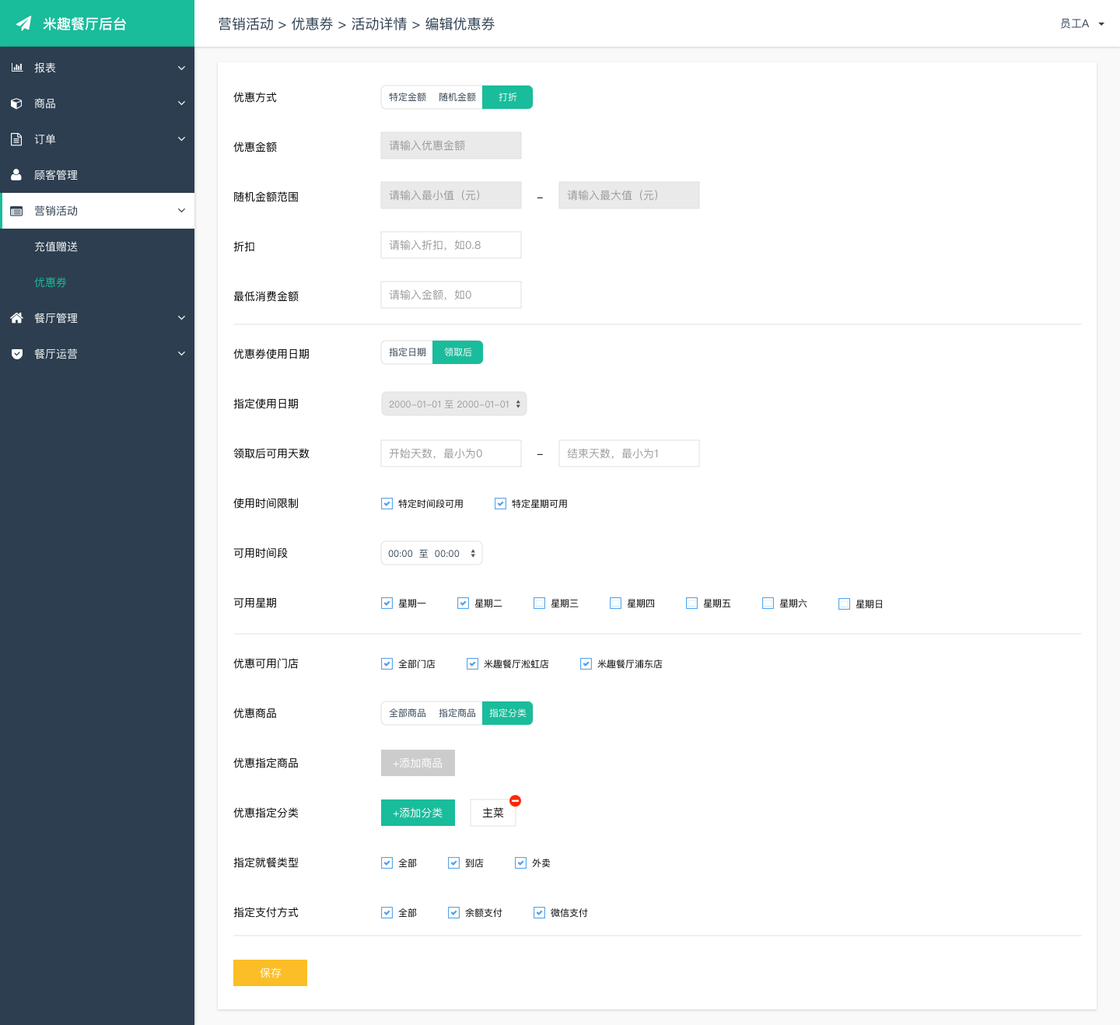
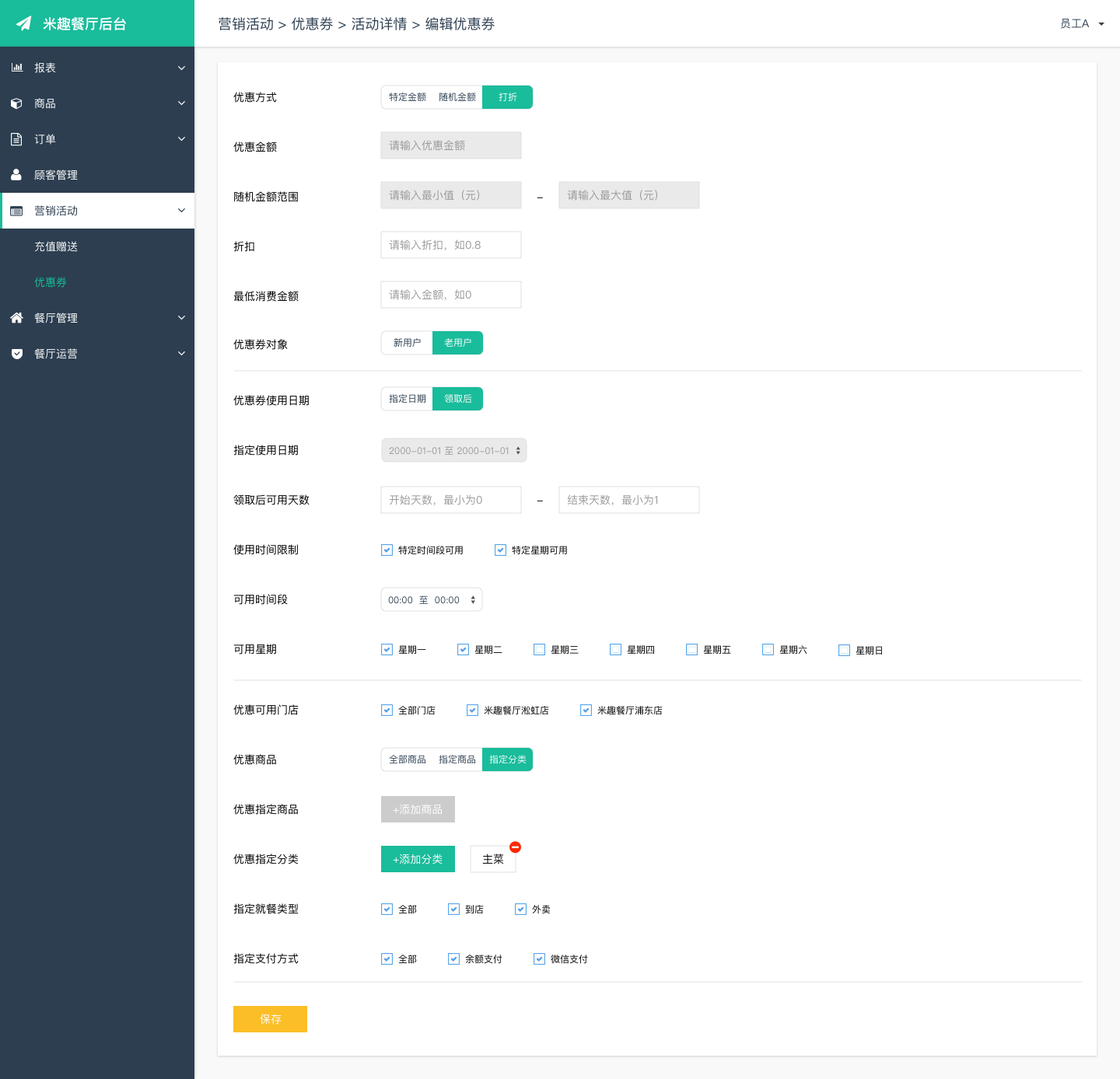
优惠

diff --git a/files/e2优惠券/data.js b/files/e2优惠券/data.js
@@ -2,6 +2,6 @@
 (function() {
     var _ = function() { var r={},a=arguments; for(var i=0; i<a.length; i+=2) r[a[i]]=a[i+1]; return r; }
     var _creator = function() { return _(b,c,d,e,f,g,h,g,i,[j],k,_(l,m,n,o,p,q,r,_(),s,_(t,u,v,w,x,_(y,z,A,B),C,null,D,w,E,w,F,G,H,null,I,J,K,L,M,N,O,J),P,_(),Q,_(),R,_(S,[_(T,U,V,W,X,Y,n,Z,ba,Z,bb,bc,s,_(bd,_(be,bf,bg,bh),t,bi,bj,_(bk,bl,bm,bl)),P,_(),bn,_(),S,[_(T,bo,V,W,X,null,bp,bc,n,bq,ba,br,bb,bc,s,_(bd,_(be,bf,bg,bh),t,bi,bj,_(bk,bl,bm,bl)),P,_(),bn,_())],bs,_(bt,bu)),_(T,bv,V,W,X,bw,n,bx,ba,bx,bb,bc,s,_(t,by,bj,_(bk,bz,bm,bA)),P,_(),bn,_(),S,[_(T,bB,V,W,X,null,bp,bc,n,bq,ba,br,bb,bc,s,_(t,by,bj,_(bk,bz,bm,bA)),P,_(),bn,_())],bs,_(bC,bD,bE,bF)),_(T,bG,V,W,X,bH,n,bI,ba,bI,bb,bc,s,_(bJ,bK,bd,_(be,bL,bg,bl),t,bM,bj,_(bk,bN,bm,bO),bP,_(y,z,A,bQ,bR,bS),bT,bU),P,_(),bn,_(),S,[_(T,bV,V,W,X,null,bp,bc,n,bq,ba,br,bb,bc,s,_(bJ,bK,bd,_(be,bL,bg,bl),t,bM,bj,_(bk,bN,bm,bO),bP,_(y,z,A,bQ,bR,bS),bT,bU),P,_(),bn,_())],bW,g),_(T,bX,V,W,X,bY,n,bZ,ba,bZ,bb,bc,s,_(bd,_(be,ca,bg,cb),bj,_(bk,bl,bm,cc)),P,_(),bn,_(),S,[_(T,cd,V,W,X,ce,n,cf,ba,cf,bb,bc,s,_(bd,_(be,cg,bg,ch),t,ci,x,_(y,z,A,cj),ck,_(y,z,A,cl)),P,_(),bn,_(),S,[_(T,cm,V,W,X,null,bp,bc,n,bq,ba,br,bb,bc,s,_(bd,_(be,cg,bg,ch),t,ci,x,_(y,z,A,cj),ck,_(y,z,A,cl)),P,_(),bn,_())],bs,_(bt,cn)),_(T,co,V,W,X,ce,n,cf,ba,cf,bb,bc,s,_(bj,_(bk,cg,bm,cp),bd,_(be,cq,bg,ch),t,ci,x,_(y,z,A,cj),ck,_(y,z,A,cl),cr,cs),P,_(),bn,_(),S,[_(T,ct,V,W,X,null,bp,bc,n,bq,ba,br,bb,bc,s,_(bj,_(bk,cg,bm,cp),bd,_(be,cq,bg,ch),t,ci,x,_(y,z,A,cj),ck,_(y,z,A,cl),cr,cs),P,_(),bn,_())],bs,_(bt,cu)),_(T,cv,V,W,X,ce,n,cf,ba,cf,bb,bc,s,_(bd,_(be,cg,bg,cw),t,ci,bj,_(bk,cp,bm,ch),ck,_(y,z,A,cl),M,cx),P,_(),bn,_(),S,[_(T,cy,V,W,X,null,bp,bc,n,bq,ba,br,bb,bc,s,_(bd,_(be,cg,bg,cw),t,ci,bj,_(bk,cp,bm,ch),ck,_(y,z,A,cl),M,cx),P,_(),bn,_())],bs,_(bt,cz)),_(T,cA,V,W,X,ce,n,cf,ba,cf,bb,bc,s,_(bd,_(be,cq,bg,cw),t,ci,ck,_(y,z,A,cl),M,cx,bj,_(bk,cg,bm,ch),cr,cs),P,_(),bn,_(),S,[_(T,cB,V,W,X,null,bp,bc,n,bq,ba,br,bb,bc,s,_(bd,_(be,cq,bg,cw),t,ci,ck,_(y,z,A,cl),M,cx,bj,_(bk,cg,bm,ch),cr,cs),P,_(),bn,_())],bs,_(bt,cC)),_(T,cD,V,W,X,ce,n,cf,ba,cf,bb,bc,s,_(bd,_(be,cg,bg,cw),t,ci,bj,_(bk,cp,bm,cE),ck,_(y,z,A,cl),M,cx),P,_(),bn,_(),S,[_(T,cF,V,W,X,null,bp,bc,n,bq,ba,br,bb,bc,s,_(bd,_(be,cg,bg,cw),t,ci,bj,_(bk,cp,bm,cE),ck,_(y,z,A,cl),M,cx),P,_(),bn,_())],bs,_(bt,cz)),_(T,cG,V,W,X,ce,n,cf,ba,cf,bb,bc,s,_(bd,_(be,cq,bg,cw),t,ci,ck,_(y,z,A,cl),M,cx,bj,_(bk,cg,bm,cE),cr,cs),P,_(),bn,_(),S,[_(T,cH,V,W,X,null,bp,bc,n,bq,ba,br,bb,bc,s,_(bd,_(be,cq,bg,cw),t,ci,ck,_(y,z,A,cl),M,cx,bj,_(bk,cg,bm,cE),cr,cs),P,_(),bn,_())],bs,_(bt,cC)),_(T,cI,V,W,X,ce,n,cf,ba,cf,bb,bc,s,_(bd,_(be,cg,bg,cw),t,ci,ck,_(y,z,A,cl),M,cx,bj,_(bk,cp,bm,cJ)),P,_(),bn,_(),S,[_(T,cK,V,W,X,null,bp,bc,n,bq,ba,br,bb,bc,s,_(bd,_(be,cg,bg,cw),t,ci,ck,_(y,z,A,cl),M,cx,bj,_(bk,cp,bm,cJ)),P,_(),bn,_())],bs,_(bt,cz)),_(T,cL,V,W,X,ce,n,cf,ba,cf,bb,bc,s,_(bd,_(be,cq,bg,cw),t,ci,ck,_(y,z,A,cl),M,cx,bj,_(bk,cg,bm,cJ),cr,cs),P,_(),bn,_(),S,[_(T,cM,V,W,X,null,bp,bc,n,bq,ba,br,bb,bc,s,_(bd,_(be,cq,bg,cw),t,ci,ck,_(y,z,A,cl),M,cx,bj,_(bk,cg,bm,cJ),cr,cs),P,_(),bn,_())],bs,_(bt,cC)),_(T,cN,V,W,X,ce,n,cf,ba,cf,bb,bc,s,_(bd,_(be,cg,bg,cw),t,ci,ck,_(y,z,A,cl),M,cx,bj,_(bk,cp,bm,cO)),P,_(),bn,_(),S,[_(T,cP,V,W,X,null,bp,bc,n,bq,ba,br,bb,bc,s,_(bd,_(be,cg,bg,cw),t,ci,ck,_(y,z,A,cl),M,cx,bj,_(bk,cp,bm,cO)),P,_(),bn,_())],bs,_(bt,cz)),_(T,cQ,V,W,X,ce,n,cf,ba,cf,bb,bc,s,_(bd,_(be,cq,bg,cw),t,ci,ck,_(y,z,A,cl),M,cx,cr,cs,bj,_(bk,cg,bm,cO)),P,_(),bn,_(),S,[_(T,cR,V,W,X,null,bp,bc,n,bq,ba,br,bb,bc,s,_(bd,_(be,cq,bg,cw),t,ci,ck,_(y,z,A,cl),M,cx,cr,cs,bj,_(bk,cg,bm,cO)),P,_(),bn,_())],bs,_(bt,cC)),_(T,cS,V,W,X,ce,n,cf,ba,cf,bb,bc,s,_(bd,_(be,cg,bg,cw),t,ci,ck,_(y,z,A,cl),M,cx,bj,_(bk,cp,bm,cT)),P,_(),bn,_(),S,[_(T,cU,V,W,X,null,bp,bc,n,bq,ba,br,bb,bc,s,_(bd,_(be,cg,bg,cw),t,ci,ck,_(y,z,A,cl),M,cx,bj,_(bk,cp,bm,cT)),P,_(),bn,_())],bs,_(bt,cz)),_(T,cV,V,W,X,ce,n,cf,ba,cf,bb,bc,s,_(bd,_(be,cq,bg,cw),t,ci,ck,_(y,z,A,cl),M,cx,bj,_(bk,cg,bm,cT),cr,cs),P,_(),bn,_(),S,[_(T,cW,V,W,X,null,bp,bc,n,bq,ba,br,bb,bc,s,_(bd,_(be,cq,bg,cw),t,ci,ck,_(y,z,A,cl),M,cx,bj,_(bk,cg,bm,cT),cr,cs),P,_(),bn,_())],bs,_(bt,cC)),_(T,cX,V,W,X,ce,n,cf,ba,cf,bb,bc,s,_(bd,_(be,cg,bg,cw),t,ci,ck,_(y,z,A,cl),M,cx,bj,_(bk,cp,bm,cY)),P,_(),bn,_(),S,[_(T,cZ,V,W,X,null,bp,bc,n,bq,ba,br,bb,bc,s,_(bd,_(be,cg,bg,cw),t,ci,ck,_(y,z,A,cl),M,cx,bj,_(bk,cp,bm,cY)),P,_(),bn,_())],bs,_(bt,da)),_(T,db,V,W,X,ce,n,cf,ba,cf,bb,bc,s,_(bd,_(be,cq,bg,cw),t,ci,ck,_(y,z,A,cl),M,cx,bj,_(bk,cg,bm,cY),cr,cs),P,_(),bn,_(),S,[_(T,dc,V,W,X,null,bp,bc,n,bq,ba,br,bb,bc,s,_(bd,_(be,cq,bg,cw),t,ci,ck,_(y,z,A,cl),M,cx,bj,_(bk,cg,bm,cY),cr,cs),P,_(),bn,_())],bs,_(bt,dd))]),_(T,de,V,W,X,bY,n,bZ,ba,bZ,bb,bc,s,_(bd,_(be,ca,bg,cg),bj,_(bk,bl,bm,df)),P,_(),bn,_(),S,[_(T,dg,V,W,X,ce,n,cf,ba,cf,bb,bc,s,_(bd,_(be,dh,bg,cw),t,ci,bj,_(bk,cp,bm,di),ck,_(y,z,A,cl),M,cx),P,_(),bn,_(),S,[_(T,dj,V,W,X,null,bp,bc,n,bq,ba,br,bb,bc,s,_(bd,_(be,dh,bg,cw),t,ci,bj,_(bk,cp,bm,di),ck,_(y,z,A,cl),M,cx),P,_(),bn,_())],bs,_(bt,dk)),_(T,dl,V,W,X,ce,n,cf,ba,cf,bb,bc,s,_(bd,_(be,dm,bg,cw),t,ci,ck,_(y,z,A,cl),M,cx,bj,_(bk,dh,bm,di)),P,_(),bn,_(),S,[_(T,dn,V,W,X,null,bp,bc,n,bq,ba,br,bb,bc,s,_(bd,_(be,dm,bg,cw),t,ci,ck,_(y,z,A,cl),M,cx,bj,_(bk,dh,bm,di)),P,_(),bn,_())],bs,_(bt,dp)),_(T,dq,V,W,X,ce,n,cf,ba,cf,bb,bc,s,_(bd,_(be,dh,bg,di),t,ci,x,_(y,z,A,cj),ck,_(y,z,A,cl)),P,_(),bn,_(),S,[_(T,dr,V,W,X,null,bp,bc,n,bq,ba,br,bb,bc,s,_(bd,_(be,dh,bg,di),t,ci,x,_(y,z,A,cj),ck,_(y,z,A,cl)),P,_(),bn,_())],bs,_(bt,ds)),_(T,dt,V,W,X,ce,n,cf,ba,cf,bb,bc,s,_(bj,_(bk,dh,bm,cp),bd,_(be,dm,bg,di),t,ci,x,_(y,z,A,cj),ck,_(y,z,A,cl)),P,_(),bn,_(),S,[_(T,du,V,W,X,null,bp,bc,n,bq,ba,br,bb,bc,s,_(bj,_(bk,dh,bm,cp),bd,_(be,dm,bg,di),t,ci,x,_(y,z,A,cj),ck,_(y,z,A,cl)),P,_(),bn,_())],bs,_(bt,dv)),_(T,dw,V,W,X,ce,n,cf,ba,cf,bb,bc,s,_(bj,_(bk,dx,bm,cp),bd,_(be,dy,bg,di),t,ci,x,_(y,z,A,cj),ck,_(y,z,A,cl),M,cx),P,_(),bn,_(),S,[_(T,dz,V,W,X,null,bp,bc,n,bq,ba,br,bb,bc,s,_(bj,_(bk,dx,bm,cp),bd,_(be,dy,bg,di),t,ci,x,_(y,z,A,cj),ck,_(y,z,A,cl),M,cx),P,_(),bn,_())],bs,_(bt,dA)),_(T,dB,V,W,X,ce,n,cf,ba,cf,bb,bc,s,_(bd,_(be,dy,bg,cw),t,ci,ck,_(y,z,A,cl),M,cx,bj,_(bk,dx,bm,di)),P,_(),bn,_(),S,[_(T,dC,V,W,X,null,bp,bc,n,bq,ba,br,bb,bc,s,_(bd,_(be,dy,bg,cw),t,ci,ck,_(y,z,A,cl),M,cx,bj,_(bk,dx,bm,di)),P,_(),bn,_())],bs,_(bt,dD)),_(T,dE,V,W,X,ce,n,cf,ba,cf,bb,bc,s,_(bd,_(be,dh,bg,cw),t,ci,ck,_(y,z,A,cl),M,cx,bj,_(bk,cp,bm,dF)),P,_(),bn,_(),S,[_(T,dG,V,W,X,null,bp,bc,n,bq,ba,br,bb,bc,s,_(bd,_(be,dh,bg,cw),t,ci,ck,_(y,z,A,cl),M,cx,bj,_(bk,cp,bm,dF)),P,_(),bn,_())],bs,_(bt,dk)),_(T,dH,V,W,X,ce,n,cf,ba,cf,bb,bc,s,_(bd,_(be,dm,bg,cw),t,ci,ck,_(y,z,A,cl),M,cx,bj,_(bk,dh,bm,dF)),P,_(),bn,_(),S,[_(T,dI,V,W,X,null,bp,bc,n,bq,ba,br,bb,bc,s,_(bd,_(be,dm,bg,cw),t,ci,ck,_(y,z,A,cl),M,cx,bj,_(bk,dh,bm,dF)),P,_(),bn,_())],bs,_(bt,dp)),_(T,dJ,V,W,X,ce,n,cf,ba,cf,bb,bc,s,_(bd,_(be,dy,bg,cw),t,ci,ck,_(y,z,A,cl),M,cx,bj,_(bk,dx,bm,dF)),P,_(),bn,_(),S,[_(T,dK,V,W,X,null,bp,bc,n,bq,ba,br,bb,bc,s,_(bd,_(be,dy,bg,cw),t,ci,ck,_(y,z,A,cl),M,cx,bj,_(bk,dx,bm,dF)),P,_(),bn,_())],bs,_(bt,dD)),_(T,dL,V,W,X,ce,n,cf,ba,cf,bb,bc,s,_(bd,_(be,dh,bg,cw),t,ci,ck,_(y,z,A,cl),M,cx,bj,_(bk,cp,bm,dM)),P,_(),bn,_(),S,[_(T,dN,V,W,X,null,bp,bc,n,bq,ba,br,bb,bc,s,_(bd,_(be,dh,bg,cw),t,ci,ck,_(y,z,A,cl),M,cx,bj,_(bk,cp,bm,dM)),P,_(),bn,_())],bs,_(bt,dk)),_(T,dO,V,W,X,ce,n,cf,ba,cf,bb,bc,s,_(bd,_(be,dm,bg,cw),t,ci,ck,_(y,z,A,cl),M,cx,bj,_(bk,dh,bm,dM)),P,_(),bn,_(),S,[_(T,dP,V,W,X,null,bp,bc,n,bq,ba,br,bb,bc,s,_(bd,_(be,dm,bg,cw),t,ci,ck,_(y,z,A,cl),M,cx,bj,_(bk,dh,bm,dM)),P,_(),bn,_())],bs,_(bt,dp)),_(T,dQ,V,W,X,ce,n,cf,ba,cf,bb,bc,s,_(bd,_(be,dy,bg,cw),t,ci,ck,_(y,z,A,cl),M,cx,bj,_(bk,dx,bm,dM)),P,_(),bn,_(),S,[_(T,dR,V,W,X,null,bp,bc,n,bq,ba,br,bb,bc,s,_(bd,_(be,dy,bg,cw),t,ci,ck,_(y,z,A,cl),M,cx,bj,_(bk,dx,bm,dM)),P,_(),bn,_())],bs,_(bt,dD)),_(T,dS,V,W,X,ce,n,cf,ba,cf,bb,bc,s,_(bd,_(be,dh,bg,cw),t,ci,ck,_(y,z,A,cl),M,cx,bj,_(bk,cp,bm,dT)),P,_(),bn,_(),S,[_(T,dU,V,W,X,null,bp,bc,n,bq,ba,br,bb,bc,s,_(bd,_(be,dh,bg,cw),t,ci,ck,_(y,z,A,cl),M,cx,bj,_(bk,cp,bm,dT)),P,_(),bn,_())],bs,_(bt,dV)),_(T,dW,V,W,X,ce,n,cf,ba,cf,bb,bc,s,_(bd,_(be,dm,bg,cw),t,ci,ck,_(y,z,A,cl),M,cx,bj,_(bk,dh,bm,dT)),P,_(),bn,_(),S,[_(T,dX,V,W,X,null,bp,bc,n,bq,ba,br,bb,bc,s,_(bd,_(be,dm,bg,cw),t,ci,ck,_(y,z,A,cl),M,cx,bj,_(bk,dh,bm,dT)),P,_(),bn,_())],bs,_(bt,dY)),_(T,dZ,V,W,X,ce,n,cf,ba,cf,bb,bc,s,_(bd,_(be,dy,bg,cw),t,ci,ck,_(y,z,A,cl),M,cx,bj,_(bk,dx,bm,dT)),P,_(),bn,_(),S,[_(T,ea,V,W,X,null,bp,bc,n,bq,ba,br,bb,bc,s,_(bd,_(be,dy,bg,cw),t,ci,ck,_(y,z,A,cl),M,cx,bj,_(bk,dx,bm,dT)),P,_(),bn,_())],bs,_(bt,eb))]),_(T,ec,V,W,X,bH,n,bI,ba,bI,bb,bc,s,_(bJ,bK,bd,_(be,ed,bg,bl),t,bM,bj,_(bk,bl,bm,ee),bP,_(y,z,A,bQ,bR,bS),bT,bU),P,_(),bn,_(),S,[_(T,ef,V,W,X,null,bp,bc,n,bq,ba,br,bb,bc,s,_(bJ,bK,bd,_(be,ed,bg,bl),t,bM,bj,_(bk,bl,bm,ee),bP,_(y,z,A,bQ,bR,bS),bT,bU),P,_(),bn,_())],bW,g)])),eg,_(),eh,_(ei,_(ej,ek),el,_(ej,em),en,_(ej,eo),ep,_(ej,eq),er,_(ej,es),et,_(ej,eu),ev,_(ej,ew),ex,_(ej,ey),ez,_(ej,eA),eB,_(ej,eC),eD,_(ej,eE),eF,_(ej,eG),eH,_(ej,eI),eJ,_(ej,eK),eL,_(ej,eM),eN,_(ej,eO),eP,_(ej,eQ),eR,_(ej,eS),eT,_(ej,eU),eV,_(ej,eW),eX,_(ej,eY),eZ,_(ej,fa),fb,_(ej,fc),fd,_(ej,fe),ff,_(ej,fg),fh,_(ej,fi),fj,_(ej,fk),fl,_(ej,fm),fn,_(ej,fo),fp,_(ej,fq),fr,_(ej,fs),ft,_(ej,fu),fv,_(ej,fw),fx,_(ej,fy),fz,_(ej,fA),fB,_(ej,fC),fD,_(ej,fE),fF,_(ej,fG),fH,_(ej,fI),fJ,_(ej,fK),fL,_(ej,fM),fN,_(ej,fO),fP,_(ej,fQ),fR,_(ej,fS),fT,_(ej,fU),fV,_(ej,fW),fX,_(ej,fY),fZ,_(ej,ga),gb,_(ej,gc),gd,_(ej,ge),gf,_(ej,gg),gh,_(ej,gi),gj,_(ej,gk),gl,_(ej,gm),gn,_(ej,go),gp,_(ej,gq),gr,_(ej,gs),gt,_(ej,gu),gv,_(ej,gw),gx,_(ej,gy),gz,_(ej,gA),gB,_(ej,gC),gD,_(ej,gE),gF,_(ej,gG),gH,_(ej,gI),gJ,_(ej,gK),gL,_(ej,gM),gN,_(ej,gO)));}; 
-var b="url",c="e2优惠券.html",d="generationDate",e=new Date(1528450912128.85),f="isCanvasEnabled",g=false,h="isAdaptiveEnabled",i="variables",j="OnLoadVariable",k="page",l="packageId",m="54f6f5647d75405c8cfa3fde6beb91ea",n="type",o="Axure:Page",p="name",q="E2优惠券",r="notes",s="style",t="baseStyle",u="627587b6038d43cca051c114ac41ad32",v="pageAlignment",w="near",x="fill",y="fillType",z="solid",A="color",B=0xFFFFFFFF,C="image",D="imageHorizontalAlignment",E="imageVerticalAlignment",F="imageRepeat",G="auto",H="favicon",I="sketchFactor",J="0",K="colorStyle",L="appliedColor",M="fontName",N="Applied Font",O="borderWidth",P="adaptiveStyles",Q="interactionMap",R="diagram",S="objects",T="id",U="0264a68bcf1b44b18a9d980c276fa66b",V="label",W="",X="friendlyType",Y="图片",Z="imageBox",ba="styleType",bb="visible",bc=true,bd="size",be="width",bf=1200,bg="height",bh=853,bi="75a91ee5b9d042cfa01b8d565fe289c0",bj="location",bk="x",bl=20,bm="y",bn="imageOverrides",bo="688b26035acb4eca978a7eb93d8a60cb",bp="isContained",bq="richTextPanel",br="paragraph",bs="images",bt="normal~",bu="images/e2优惠券/regen/u0.png",bv="5f6e1724e4c24e1d9789355eaebce5f8",bw="连接线",bx="connector",by="699a012e142a4bcba964d96e88b88bdf",bz=1155,bA=462,bB="2beffc9d3cc44662a70a14a72a0af50c",bC="0~",bD="images/e2优惠券/regen/u2_seg0.png",bE="1~",bF="images/e2优惠券/regen/u2_seg1.png",bG="940f11434a384eb3bd2900127f068ecb",bH="矩形",bI="vectorShape",bJ="fontWeight",bK="700",bL=110,bM="8c7a4c5ad69a4369a5f7788171ac0b32",bN=1230,bO=453,bP="foreGroundFill",bQ=0xFFFF6699,bR="opacity",bS=1,bT="fontSize",bU="14px",bV="cad47ab1e7144b89a2173ad851dd4471",bW="generateCompound",bX="86682982fba24d788e32d2ab8be33a9c",bY="表格",bZ="table",ca=982,cb=213,cc=894,cd="a33ce6ec928e45b4a0c63918618ca553",ce="单元格",cf="tableCell",cg=154,ch=33,ci="eb91f509753b447fa6dbff5f9fa9dc01",cj=0xFFF2F2F2,ck="borderFill",cl=0xFFD7D7D7,cm="9778871e412b4b89bfec7cffc24a8df0",cn="images/e2优惠券/regen/u7.png",co="b0012b0730614aceaed9cf4278f8c96e",cp=0,cq=828,cr="horizontalAlignment",cs="left",ct="71f21545340245c9a07b4c3f937f5294",cu="images/e2优惠券/regen/u9.png",cv="8cfee2eed867412d867470083d90fdc1",cw=30,cx="'PingFangSC-Regular', 'PingFang SC'",cy="c071bc569dc24c568e64b9dca1d9f1f1",cz="images/e2优惠券/regen/u11.png",cA="9580963240d64d3580c1252d768b15a4",cB="85af6b3ced504951867153ebea582396",cC="images/e2优惠券/regen/u13.png",cD="48c424a0f3c14bdb829da4553d7bac06",cE=63,cF="61e7a56b1f674a23a23ad93aeb2adf5d",cG="8c38b4d8417147b4ae86b74f8df3061c",cH="25a782f25a8e43338b26cbe20ef4e725",cI="ab7768cfd48d4606b01a61b33f9b69dc",cJ=123,cK="6c63558fe44341e4aa106cf1f52613b2",cL="713219f7cb61458ba2b5ff856f0a370f",cM="6ed5a88c3cb8410bb976272266c797f2",cN="e88f888c1f23477c8adf06a8abcafb64",cO=93,cP="d88de10eb72048d38b40217ac798721d",cQ="654f7faf96ef4cf1bde5cf1072dd5e18",cR="bed99a8420a248f88a09ad7998ae0db8",cS="fbd49a52b70049b7a1bfc5702b22157b",cT=153,cU="01560981eb9a4c96b4a88529db61ce35",cV="bdbf442f4128457ab6b281e0501daa36",cW="9ab781ffe4dd4adc97ee80e9d531f497",cX="4900c60dde2b4e0794a765738b577974",cY=183,cZ="be5a300aa6574e7aa85431859c071210",da="images/e2优惠券/regen/u31.png",db="1da6410f3b9644b8a22a723345d23f01",dc="5f553ab72a694e52bbf7afffc5831d55",dd="images/e2优惠券/regen/u33.png",de="39f410922d0944fba766337f813d0afd",df=1187,dg="68ce7103bf434498a06af318829decc8",dh=246,di=34,dj="9538a9c015014bd89facaf3d1c625eef",dk="images/e2优惠券/regen/u42.png",dl="8a34808c8e17418285f7fa724eb2d3f6",dm=180,dn="aebff73d2d864feda12506198658e2e5",dp="images/e2优惠券/regen/u44.png",dq="7516e21053624d99bbea51743bf997e5",dr="b8ac89bbc6084af09ad2eb5de0937f90",ds="images/e2优惠券/regen/u36.png",dt="984ad8f420e043b2a69c3f7077cfe322",du="92bb5620401a483fa69594b955428f36",dv="images/e2优惠券/regen/u38.png",dw="f4af8df70a354643a4386111b3bea981",dx=426,dy=556,dz="a7563c7206864352a0cf4ca8cad9c284",dA="images/e2优惠券/regen/u40.png",dB="497edc9a84c64e5ea32e3148e9da729a",dC="c7459059721a448ebb3acaed9af60ee5",dD="images/e2优惠券/regen/u46.png",dE="40064a8bd88849d7a65ab13c3fd2d13b",dF=64,dG="fe862d1d80c44a51afdb662376843e2d",dH="94947af5521b4dd3989062dc9749ae88",dI="ed762aaf61ed4e2fa59ddbc7ed831f8f",dJ="a801aaa794444c3da93d03da9f7ecbd0",dK="5241db28069e4537b15949f5ae9a56dc",dL="6aec4a8ecf324aa9953c6fb57640e9bc",dM=94,dN="202885c41bad453dbd670ec62f0ef24d",dO="10555d383a4e4a1997ac43f6d2c5e9e9",dP="33debeb646444567b5eea4dcfbb85506",dQ="326cb60bc03749b3b280397c7f018469",dR="ce3254d7f7e64872b173a9dc964462c0",dS="010a82ba07684ebc8d88cba16e08aa84",dT=124,dU="7c7b32c9d39948c88c9ca60f1a0194d5",dV="images/e2优惠券/regen/u60.png",dW="24f92bc50e624b1d9e28a1b6b250256e",dX="41953886e9974541bb0a0ea1b7135535",dY="images/e2优惠券/regen/u62.png",dZ="165bdd599d8c41809112ae8c0cfdf5e0",ea="15938f653add4458974ca0beb0da4b56",eb="images/e2优惠券/regen/u64.png",ec="3c18b6787f604728ae2f60bd64521a3e",ed=71,ee=1157,ef="8fa3347a1dff4a49b0c64aa1ca86642a",eg="masters",eh="objectPaths",ei="0264a68bcf1b44b18a9d980c276fa66b",ej="scriptId",ek="u0",el="688b26035acb4eca978a7eb93d8a60cb",em="u1",en="5f6e1724e4c24e1d9789355eaebce5f8",eo="u2",ep="2beffc9d3cc44662a70a14a72a0af50c",eq="u3",er="940f11434a384eb3bd2900127f068ecb",es="u4",et="cad47ab1e7144b89a2173ad851dd4471",eu="u5",ev="86682982fba24d788e32d2ab8be33a9c",ew="u6",ex="a33ce6ec928e45b4a0c63918618ca553",ey="u7",ez="9778871e412b4b89bfec7cffc24a8df0",eA="u8",eB="b0012b0730614aceaed9cf4278f8c96e",eC="u9",eD="71f21545340245c9a07b4c3f937f5294",eE="u10",eF="8cfee2eed867412d867470083d90fdc1",eG="u11",eH="c071bc569dc24c568e64b9dca1d9f1f1",eI="u12",eJ="9580963240d64d3580c1252d768b15a4",eK="u13",eL="85af6b3ced504951867153ebea582396",eM="u14",eN="48c424a0f3c14bdb829da4553d7bac06",eO="u15",eP="61e7a56b1f674a23a23ad93aeb2adf5d",eQ="u16",eR="8c38b4d8417147b4ae86b74f8df3061c",eS="u17",eT="25a782f25a8e43338b26cbe20ef4e725",eU="u18",eV="e88f888c1f23477c8adf06a8abcafb64",eW="u19",eX="d88de10eb72048d38b40217ac798721d",eY="u20",eZ="654f7faf96ef4cf1bde5cf1072dd5e18",fa="u21",fb="bed99a8420a248f88a09ad7998ae0db8",fc="u22",fd="ab7768cfd48d4606b01a61b33f9b69dc",fe="u23",ff="6c63558fe44341e4aa106cf1f52613b2",fg="u24",fh="713219f7cb61458ba2b5ff856f0a370f",fi="u25",fj="6ed5a88c3cb8410bb976272266c797f2",fk="u26",fl="fbd49a52b70049b7a1bfc5702b22157b",fm="u27",fn="01560981eb9a4c96b4a88529db61ce35",fo="u28",fp="bdbf442f4128457ab6b281e0501daa36",fq="u29",fr="9ab781ffe4dd4adc97ee80e9d531f497",fs="u30",ft="4900c60dde2b4e0794a765738b577974",fu="u31",fv="be5a300aa6574e7aa85431859c071210",fw="u32",fx="1da6410f3b9644b8a22a723345d23f01",fy="u33",fz="5f553ab72a694e52bbf7afffc5831d55",fA="u34",fB="39f410922d0944fba766337f813d0afd",fC="u35",fD="7516e21053624d99bbea51743bf997e5",fE="u36",fF="b8ac89bbc6084af09ad2eb5de0937f90",fG="u37",fH="984ad8f420e043b2a69c3f7077cfe322",fI="u38",fJ="92bb5620401a483fa69594b955428f36",fK="u39",fL="f4af8df70a354643a4386111b3bea981",fM="u40",fN="a7563c7206864352a0cf4ca8cad9c284",fO="u41",fP="68ce7103bf434498a06af318829decc8",fQ="u42",fR="9538a9c015014bd89facaf3d1c625eef",fS="u43",fT="8a34808c8e17418285f7fa724eb2d3f6",fU="u44",fV="aebff73d2d864feda12506198658e2e5",fW="u45",fX="497edc9a84c64e5ea32e3148e9da729a",fY="u46",fZ="c7459059721a448ebb3acaed9af60ee5",ga="u47",gb="40064a8bd88849d7a65ab13c3fd2d13b",gc="u48",gd="fe862d1d80c44a51afdb662376843e2d",ge="u49",gf="94947af5521b4dd3989062dc9749ae88",gg="u50",gh="ed762aaf61ed4e2fa59ddbc7ed831f8f",gi="u51",gj="a801aaa794444c3da93d03da9f7ecbd0",gk="u52",gl="5241db28069e4537b15949f5ae9a56dc",gm="u53",gn="6aec4a8ecf324aa9953c6fb57640e9bc",go="u54",gp="202885c41bad453dbd670ec62f0ef24d",gq="u55",gr="10555d383a4e4a1997ac43f6d2c5e9e9",gs="u56",gt="33debeb646444567b5eea4dcfbb85506",gu="u57",gv="326cb60bc03749b3b280397c7f018469",gw="u58",gx="ce3254d7f7e64872b173a9dc964462c0",gy="u59",gz="010a82ba07684ebc8d88cba16e08aa84",gA="u60",gB="7c7b32c9d39948c88c9ca60f1a0194d5",gC="u61",gD="24f92bc50e624b1d9e28a1b6b250256e",gE="u62",gF="41953886e9974541bb0a0ea1b7135535",gG="u63",gH="165bdd599d8c41809112ae8c0cfdf5e0",gI="u64",gJ="15938f653add4458974ca0beb0da4b56",gK="u65",gL="3c18b6787f604728ae2f60bd64521a3e",gM="u66",gN="8fa3347a1dff4a49b0c64aa1ca86642a",gO="u67";
+var b="url",c="e2优惠券.html",d="generationDate",e=new Date(1529895532319.37),f="isCanvasEnabled",g=false,h="isAdaptiveEnabled",i="variables",j="OnLoadVariable",k="page",l="packageId",m="54f6f5647d75405c8cfa3fde6beb91ea",n="type",o="Axure:Page",p="name",q="E2优惠券",r="notes",s="style",t="baseStyle",u="627587b6038d43cca051c114ac41ad32",v="pageAlignment",w="near",x="fill",y="fillType",z="solid",A="color",B=0xFFFFFFFF,C="image",D="imageHorizontalAlignment",E="imageVerticalAlignment",F="imageRepeat",G="auto",H="favicon",I="sketchFactor",J="0",K="colorStyle",L="appliedColor",M="fontName",N="Applied Font",O="borderWidth",P="adaptiveStyles",Q="interactionMap",R="diagram",S="objects",T="id",U="0264a68bcf1b44b18a9d980c276fa66b",V="label",W="",X="friendlyType",Y="图片",Z="imageBox",ba="styleType",bb="visible",bc=true,bd="size",be="width",bf=1200,bg="height",bh=853,bi="75a91ee5b9d042cfa01b8d565fe289c0",bj="location",bk="x",bl=20,bm="y",bn="imageOverrides",bo="688b26035acb4eca978a7eb93d8a60cb",bp="isContained",bq="richTextPanel",br="paragraph",bs="images",bt="normal~",bu="images/e2优惠券/regen/u0.png",bv="5f6e1724e4c24e1d9789355eaebce5f8",bw="连接线",bx="connector",by="699a012e142a4bcba964d96e88b88bdf",bz=1155,bA=462,bB="2beffc9d3cc44662a70a14a72a0af50c",bC="0~",bD="images/e2优惠券/regen/u2_seg0.png",bE="1~",bF="images/e2优惠券/regen/u2_seg1.png",bG="940f11434a384eb3bd2900127f068ecb",bH="矩形",bI="vectorShape",bJ="fontWeight",bK="700",bL=110,bM="8c7a4c5ad69a4369a5f7788171ac0b32",bN=1230,bO=453,bP="foreGroundFill",bQ=0xFFFF6699,bR="opacity",bS=1,bT="fontSize",bU="14px",bV="cad47ab1e7144b89a2173ad851dd4471",bW="generateCompound",bX="86682982fba24d788e32d2ab8be33a9c",bY="表格",bZ="table",ca=982,cb=213,cc=894,cd="a33ce6ec928e45b4a0c63918618ca553",ce="单元格",cf="tableCell",cg=154,ch=33,ci="eb91f509753b447fa6dbff5f9fa9dc01",cj=0xFFF2F2F2,ck="borderFill",cl=0xFFD7D7D7,cm="9778871e412b4b89bfec7cffc24a8df0",cn="images/e2优惠券/regen/u7.png",co="b0012b0730614aceaed9cf4278f8c96e",cp=0,cq=828,cr="horizontalAlignment",cs="left",ct="71f21545340245c9a07b4c3f937f5294",cu="images/e2优惠券/regen/u9.png",cv="8cfee2eed867412d867470083d90fdc1",cw=30,cx="'PingFangSC-Regular', 'PingFang SC'",cy="c071bc569dc24c568e64b9dca1d9f1f1",cz="images/e2优惠券/regen/u11.png",cA="9580963240d64d3580c1252d768b15a4",cB="85af6b3ced504951867153ebea582396",cC="images/e2优惠券/regen/u13.png",cD="48c424a0f3c14bdb829da4553d7bac06",cE=63,cF="61e7a56b1f674a23a23ad93aeb2adf5d",cG="8c38b4d8417147b4ae86b74f8df3061c",cH="25a782f25a8e43338b26cbe20ef4e725",cI="ab7768cfd48d4606b01a61b33f9b69dc",cJ=123,cK="6c63558fe44341e4aa106cf1f52613b2",cL="713219f7cb61458ba2b5ff856f0a370f",cM="6ed5a88c3cb8410bb976272266c797f2",cN="e88f888c1f23477c8adf06a8abcafb64",cO=93,cP="d88de10eb72048d38b40217ac798721d",cQ="654f7faf96ef4cf1bde5cf1072dd5e18",cR="bed99a8420a248f88a09ad7998ae0db8",cS="fbd49a52b70049b7a1bfc5702b22157b",cT=153,cU="01560981eb9a4c96b4a88529db61ce35",cV="bdbf442f4128457ab6b281e0501daa36",cW="9ab781ffe4dd4adc97ee80e9d531f497",cX="4900c60dde2b4e0794a765738b577974",cY=183,cZ="be5a300aa6574e7aa85431859c071210",da="images/e2优惠券/regen/u31.png",db="1da6410f3b9644b8a22a723345d23f01",dc="5f553ab72a694e52bbf7afffc5831d55",dd="images/e2优惠券/regen/u33.png",de="39f410922d0944fba766337f813d0afd",df=1187,dg="68ce7103bf434498a06af318829decc8",dh=246,di=34,dj="9538a9c015014bd89facaf3d1c625eef",dk="images/e2优惠券/regen/u42.png",dl="8a34808c8e17418285f7fa724eb2d3f6",dm=180,dn="aebff73d2d864feda12506198658e2e5",dp="images/e2优惠券/regen/u44.png",dq="7516e21053624d99bbea51743bf997e5",dr="b8ac89bbc6084af09ad2eb5de0937f90",ds="images/e2优惠券/regen/u36.png",dt="984ad8f420e043b2a69c3f7077cfe322",du="92bb5620401a483fa69594b955428f36",dv="images/e2优惠券/regen/u38.png",dw="f4af8df70a354643a4386111b3bea981",dx=426,dy=556,dz="a7563c7206864352a0cf4ca8cad9c284",dA="images/e2优惠券/regen/u40.png",dB="497edc9a84c64e5ea32e3148e9da729a",dC="c7459059721a448ebb3acaed9af60ee5",dD="images/e2优惠券/regen/u46.png",dE="40064a8bd88849d7a65ab13c3fd2d13b",dF=64,dG="fe862d1d80c44a51afdb662376843e2d",dH="94947af5521b4dd3989062dc9749ae88",dI="ed762aaf61ed4e2fa59ddbc7ed831f8f",dJ="a801aaa794444c3da93d03da9f7ecbd0",dK="5241db28069e4537b15949f5ae9a56dc",dL="6aec4a8ecf324aa9953c6fb57640e9bc",dM=94,dN="202885c41bad453dbd670ec62f0ef24d",dO="10555d383a4e4a1997ac43f6d2c5e9e9",dP="33debeb646444567b5eea4dcfbb85506",dQ="326cb60bc03749b3b280397c7f018469",dR="ce3254d7f7e64872b173a9dc964462c0",dS="010a82ba07684ebc8d88cba16e08aa84",dT=124,dU="7c7b32c9d39948c88c9ca60f1a0194d5",dV="images/e2优惠券/regen/u60.png",dW="24f92bc50e624b1d9e28a1b6b250256e",dX="41953886e9974541bb0a0ea1b7135535",dY="images/e2优惠券/regen/u62.png",dZ="165bdd599d8c41809112ae8c0cfdf5e0",ea="15938f653add4458974ca0beb0da4b56",eb="images/e2优惠券/regen/u64.png",ec="3c18b6787f604728ae2f60bd64521a3e",ed=71,ee=1157,ef="8fa3347a1dff4a49b0c64aa1ca86642a",eg="masters",eh="objectPaths",ei="0264a68bcf1b44b18a9d980c276fa66b",ej="scriptId",ek="u0",el="688b26035acb4eca978a7eb93d8a60cb",em="u1",en="5f6e1724e4c24e1d9789355eaebce5f8",eo="u2",ep="2beffc9d3cc44662a70a14a72a0af50c",eq="u3",er="940f11434a384eb3bd2900127f068ecb",es="u4",et="cad47ab1e7144b89a2173ad851dd4471",eu="u5",ev="86682982fba24d788e32d2ab8be33a9c",ew="u6",ex="a33ce6ec928e45b4a0c63918618ca553",ey="u7",ez="9778871e412b4b89bfec7cffc24a8df0",eA="u8",eB="b0012b0730614aceaed9cf4278f8c96e",eC="u9",eD="71f21545340245c9a07b4c3f937f5294",eE="u10",eF="8cfee2eed867412d867470083d90fdc1",eG="u11",eH="c071bc569dc24c568e64b9dca1d9f1f1",eI="u12",eJ="9580963240d64d3580c1252d768b15a4",eK="u13",eL="85af6b3ced504951867153ebea582396",eM="u14",eN="48c424a0f3c14bdb829da4553d7bac06",eO="u15",eP="61e7a56b1f674a23a23ad93aeb2adf5d",eQ="u16",eR="8c38b4d8417147b4ae86b74f8df3061c",eS="u17",eT="25a782f25a8e43338b26cbe20ef4e725",eU="u18",eV="e88f888c1f23477c8adf06a8abcafb64",eW="u19",eX="d88de10eb72048d38b40217ac798721d",eY="u20",eZ="654f7faf96ef4cf1bde5cf1072dd5e18",fa="u21",fb="bed99a8420a248f88a09ad7998ae0db8",fc="u22",fd="ab7768cfd48d4606b01a61b33f9b69dc",fe="u23",ff="6c63558fe44341e4aa106cf1f52613b2",fg="u24",fh="713219f7cb61458ba2b5ff856f0a370f",fi="u25",fj="6ed5a88c3cb8410bb976272266c797f2",fk="u26",fl="fbd49a52b70049b7a1bfc5702b22157b",fm="u27",fn="01560981eb9a4c96b4a88529db61ce35",fo="u28",fp="bdbf442f4128457ab6b281e0501daa36",fq="u29",fr="9ab781ffe4dd4adc97ee80e9d531f497",fs="u30",ft="4900c60dde2b4e0794a765738b577974",fu="u31",fv="be5a300aa6574e7aa85431859c071210",fw="u32",fx="1da6410f3b9644b8a22a723345d23f01",fy="u33",fz="5f553ab72a694e52bbf7afffc5831d55",fA="u34",fB="39f410922d0944fba766337f813d0afd",fC="u35",fD="7516e21053624d99bbea51743bf997e5",fE="u36",fF="b8ac89bbc6084af09ad2eb5de0937f90",fG="u37",fH="984ad8f420e043b2a69c3f7077cfe322",fI="u38",fJ="92bb5620401a483fa69594b955428f36",fK="u39",fL="f4af8df70a354643a4386111b3bea981",fM="u40",fN="a7563c7206864352a0cf4ca8cad9c284",fO="u41",fP="68ce7103bf434498a06af318829decc8",fQ="u42",fR="9538a9c015014bd89facaf3d1c625eef",fS="u43",fT="8a34808c8e17418285f7fa724eb2d3f6",fU="u44",fV="aebff73d2d864feda12506198658e2e5",fW="u45",fX="497edc9a84c64e5ea32e3148e9da729a",fY="u46",fZ="c7459059721a448ebb3acaed9af60ee5",ga="u47",gb="40064a8bd88849d7a65ab13c3fd2d13b",gc="u48",gd="fe862d1d80c44a51afdb662376843e2d",ge="u49",gf="94947af5521b4dd3989062dc9749ae88",gg="u50",gh="ed762aaf61ed4e2fa59ddbc7ed831f8f",gi="u51",gj="a801aaa794444c3da93d03da9f7ecbd0",gk="u52",gl="5241db28069e4537b15949f5ae9a56dc",gm="u53",gn="6aec4a8ecf324aa9953c6fb57640e9bc",go="u54",gp="202885c41bad453dbd670ec62f0ef24d",gq="u55",gr="10555d383a4e4a1997ac43f6d2c5e9e9",gs="u56",gt="33debeb646444567b5eea4dcfbb85506",gu="u57",gv="326cb60bc03749b3b280397c7f018469",gw="u58",gx="ce3254d7f7e64872b173a9dc964462c0",gy="u59",gz="010a82ba07684ebc8d88cba16e08aa84",gA="u60",gB="7c7b32c9d39948c88c9ca60f1a0194d5",gC="u61",gD="24f92bc50e624b1d9e28a1b6b250256e",gE="u62",gF="41953886e9974541bb0a0ea1b7135535",gG="u63",gH="165bdd599d8c41809112ae8c0cfdf5e0",gI="u64",gJ="15938f653add4458974ca0beb0da4b56",gK="u65",gL="3c18b6787f604728ae2f60bd64521a3e",gM="u66",gN="8fa3347a1dff4a49b0c64aa1ca86642a",gO="u67";
 return _creator();
 })());

diff --git a/files/e21活动详情/data.js b/files/e21活动详情/data.js
@@ -2,6 +2,6 @@
 (function() {
     var _ = function() { var r={},a=arguments; for(var i=0; i<a.length; i+=2) r[a[i]]=a[i+1]; return r; }
     var _creator = function() { return _(b,c,d,e,f,g,h,g,i,[j],k,_(l,m,n,o,p,q,r,_(),s,_(t,u,v,w,x,_(y,z,A,B),C,null,D,w,E,w,F,G,H,null,I,J,K,L,M,N,O,J),P,_(),Q,_(),R,_(S,[_(T,U,V,W,X,Y,n,Z,ba,Z,bb,bc,s,_(bd,_(be,bf,bg,bh),t,bi,bj,_(bk,bl,bm,bl)),P,_(),bn,_(),S,[_(T,bo,V,W,X,null,bp,bc,n,bq,ba,br,bb,bc,s,_(bd,_(be,bf,bg,bh),t,bi,bj,_(bk,bl,bm,bl)),P,_(),bn,_())],bs,_(bt,bu)),_(T,bv,V,W,X,bw,n,bx,ba,bx,bb,bc,s,_(t,by,bj,_(bk,bz,bm,bA)),P,_(),bn,_(),S,[_(T,bB,V,W,X,null,bp,bc,n,bq,ba,br,bb,bc,s,_(t,by,bj,_(bk,bz,bm,bA)),P,_(),bn,_())],bs,_(bC,bD,bE,bF)),_(T,bG,V,W,X,bH,n,bI,ba,bI,bb,bc,s,_(bJ,bK,bd,_(be,bL,bg,bl),t,bM,bj,_(bk,bN,bm,bO),bP,_(y,z,A,bQ,bR,bS),bT,bU),P,_(),bn,_(),S,[_(T,bV,V,W,X,null,bp,bc,n,bq,ba,br,bb,bc,s,_(bJ,bK,bd,_(be,bL,bg,bl),t,bM,bj,_(bk,bN,bm,bO),bP,_(y,z,A,bQ,bR,bS),bT,bU),P,_(),bn,_())],bW,g),_(T,bX,V,W,X,bw,n,bx,ba,bx,bb,bc,s,_(t,by,bj,_(bk,bY,bm,bZ)),P,_(),bn,_(),S,[_(T,ca,V,W,X,null,bp,bc,n,bq,ba,br,bb,bc,s,_(t,by,bj,_(bk,bY,bm,bZ)),P,_(),bn,_())],bs,_(bC,cb,bE,cc,cd,bF)),_(T,ce,V,W,X,bH,n,bI,ba,bI,bb,bc,s,_(bJ,bK,bd,_(be,bL,bg,bl),t,bM,bj,_(bk,cf,bm,cg),bP,_(y,z,A,bQ,bR,bS),bT,bU),P,_(),bn,_(),S,[_(T,ch,V,W,X,null,bp,bc,n,bq,ba,br,bb,bc,s,_(bJ,bK,bd,_(be,bL,bg,bl),t,bM,bj,_(bk,cf,bm,cg),bP,_(y,z,A,bQ,bR,bS),bT,bU),P,_(),bn,_())],bW,g)])),ci,_(),cj,_(ck,_(cl,cm),cn,_(cl,co),cp,_(cl,cq),cr,_(cl,cs),ct,_(cl,cu),cv,_(cl,cw),cx,_(cl,cy),cz,_(cl,cA),cB,_(cl,cC),cD,_(cl,cE)));}; 
-var b="url",c="e21活动详情.html",d="generationDate",e=new Date(1528450921342.83),f="isCanvasEnabled",g=false,h="isAdaptiveEnabled",i="variables",j="OnLoadVariable",k="page",l="packageId",m="c56cf07b14dc4af0bfc1e7d9a826a356",n="type",o="Axure:Page",p="name",q="E21活动详情",r="notes",s="style",t="baseStyle",u="627587b6038d43cca051c114ac41ad32",v="pageAlignment",w="near",x="fill",y="fillType",z="solid",A="color",B=0xFFFFFFFF,C="image",D="imageHorizontalAlignment",E="imageVerticalAlignment",F="imageRepeat",G="auto",H="favicon",I="sketchFactor",J="0",K="colorStyle",L="appliedColor",M="fontName",N="Applied Font",O="borderWidth",P="adaptiveStyles",Q="interactionMap",R="diagram",S="objects",T="id",U="0264a68bcf1b44b18a9d980c276fa66b",V="label",W="",X="friendlyType",Y="图片",Z="imageBox",ba="styleType",bb="visible",bc=true,bd="size",be="width",bf=1200,bg="height",bh=853,bi="75a91ee5b9d042cfa01b8d565fe289c0",bj="location",bk="x",bl=20,bm="y",bn="imageOverrides",bo="688b26035acb4eca978a7eb93d8a60cb",bp="isContained",bq="richTextPanel",br="paragraph",bs="images",bt="normal~",bu="images/e21活动详情/regen/u0.png",bv="ba49a716a1784ccabadec2419a5b1538",bw="连接线",bx="connector",by="699a012e142a4bcba964d96e88b88bdf",bz=356,bA=437,bB="68cd3a4a74fc4e40bda0251779b7786b",bC="0~",bD="images/e21活动详情/regen/u2_seg0.png",bE="1~",bF="images/e21活动详情/regen/u2_seg1.png",bG="c8cadc8485ae48649a69143c671a5e2c",bH="矩形",bI="vectorShape",bJ="fontWeight",bK="700",bL=124,bM="8c7a4c5ad69a4369a5f7788171ac0b32",bN=431,bO=428,bP="foreGroundFill",bQ=0xFFFF6699,bR="opacity",bS=1,bT="fontSize",bU="14px",bV="f44f9f3183c4484592f594e87ae8a4e1",bW="generateCompound",bX="2ccaff103e824cbab3a63d3776e1e02a",bY=1082,bZ=395,ca="597c3e6774064c9b84f191f762091eba",cb="images/e21活动详情/regen/u6_seg0.png",cc="images/e21活动详情/regen/u6_seg1.png",cd="2~",ce="7611522a1f8048fdafb37d8ebd92d93d",cf=1158,cg=417,ch="35e5c5358fc54163a92a8a435462e9ab",ci="masters",cj="objectPaths",ck="0264a68bcf1b44b18a9d980c276fa66b",cl="scriptId",cm="u0",cn="688b26035acb4eca978a7eb93d8a60cb",co="u1",cp="ba49a716a1784ccabadec2419a5b1538",cq="u2",cr="68cd3a4a74fc4e40bda0251779b7786b",cs="u3",ct="c8cadc8485ae48649a69143c671a5e2c",cu="u4",cv="f44f9f3183c4484592f594e87ae8a4e1",cw="u5",cx="2ccaff103e824cbab3a63d3776e1e02a",cy="u6",cz="597c3e6774064c9b84f191f762091eba",cA="u7",cB="7611522a1f8048fdafb37d8ebd92d93d",cC="u8",cD="35e5c5358fc54163a92a8a435462e9ab",cE="u9";
+var b="url",c="e21活动详情.html",d="generationDate",e=new Date(1529895536726.85),f="isCanvasEnabled",g=false,h="isAdaptiveEnabled",i="variables",j="OnLoadVariable",k="page",l="packageId",m="c56cf07b14dc4af0bfc1e7d9a826a356",n="type",o="Axure:Page",p="name",q="E21活动详情",r="notes",s="style",t="baseStyle",u="627587b6038d43cca051c114ac41ad32",v="pageAlignment",w="near",x="fill",y="fillType",z="solid",A="color",B=0xFFFFFFFF,C="image",D="imageHorizontalAlignment",E="imageVerticalAlignment",F="imageRepeat",G="auto",H="favicon",I="sketchFactor",J="0",K="colorStyle",L="appliedColor",M="fontName",N="Applied Font",O="borderWidth",P="adaptiveStyles",Q="interactionMap",R="diagram",S="objects",T="id",U="0264a68bcf1b44b18a9d980c276fa66b",V="label",W="",X="friendlyType",Y="图片",Z="imageBox",ba="styleType",bb="visible",bc=true,bd="size",be="width",bf=1200,bg="height",bh=853,bi="75a91ee5b9d042cfa01b8d565fe289c0",bj="location",bk="x",bl=20,bm="y",bn="imageOverrides",bo="688b26035acb4eca978a7eb93d8a60cb",bp="isContained",bq="richTextPanel",br="paragraph",bs="images",bt="normal~",bu="images/e21活动详情/regen/u0.png",bv="ba49a716a1784ccabadec2419a5b1538",bw="连接线",bx="connector",by="699a012e142a4bcba964d96e88b88bdf",bz=356,bA=437,bB="68cd3a4a74fc4e40bda0251779b7786b",bC="0~",bD="images/e21活动详情/regen/u2_seg0.png",bE="1~",bF="images/e21活动详情/regen/u2_seg1.png",bG="c8cadc8485ae48649a69143c671a5e2c",bH="矩形",bI="vectorShape",bJ="fontWeight",bK="700",bL=124,bM="8c7a4c5ad69a4369a5f7788171ac0b32",bN=431,bO=428,bP="foreGroundFill",bQ=0xFFFF6699,bR="opacity",bS=1,bT="fontSize",bU="14px",bV="f44f9f3183c4484592f594e87ae8a4e1",bW="generateCompound",bX="2ccaff103e824cbab3a63d3776e1e02a",bY=1082,bZ=395,ca="597c3e6774064c9b84f191f762091eba",cb="images/e21活动详情/regen/u6_seg0.png",cc="images/e21活动详情/regen/u6_seg1.png",cd="2~",ce="7611522a1f8048fdafb37d8ebd92d93d",cf=1158,cg=417,ch="35e5c5358fc54163a92a8a435462e9ab",ci="masters",cj="objectPaths",ck="0264a68bcf1b44b18a9d980c276fa66b",cl="scriptId",cm="u0",cn="688b26035acb4eca978a7eb93d8a60cb",co="u1",cp="ba49a716a1784ccabadec2419a5b1538",cq="u2",cr="68cd3a4a74fc4e40bda0251779b7786b",cs="u3",ct="c8cadc8485ae48649a69143c671a5e2c",cu="u4",cv="f44f9f3183c4484592f594e87ae8a4e1",cw="u5",cx="2ccaff103e824cbab3a63d3776e1e02a",cy="u6",cz="597c3e6774064c9b84f191f762091eba",cA="u7",cB="7611522a1f8048fdafb37d8ebd92d93d",cC="u8",cD="35e5c5358fc54163a92a8a435462e9ab",cE="u9";
 return _creator();
 })());

diff --git a/files/e22编辑优惠券/data.js b/files/e22编辑优惠券/data.js
@@ -2,6 +2,6 @@
 (function() {
     var _ = function() { var r={},a=arguments; for(var i=0; i<a.length; i+=2) r[a[i]]=a[i+1]; return r; }
     var _creator = function() { return _(b,c,d,e,f,g,h,g,i,[j],k,_(l,m,n,o,p,q,r,_(),s,_(t,u,v,w,x,_(y,z,A,B),C,null,D,w,E,w,F,G,H,null,I,J,K,L,M,N,O,J),P,_(),Q,_(),R,_(S,[_(T,U,V,W,X,Y,n,Z,ba,Z,bb,bc,s,_(bd,_(be,bf,bg,bh),t,bi,bj,_(bk,bl,bm,bl)),P,_(),bn,_(),S,[_(T,bo,V,W,X,null,bp,bc,n,bq,ba,br,bb,bc,s,_(bd,_(be,bf,bg,bh),t,bi,bj,_(bk,bl,bm,bl)),P,_(),bn,_())],bs,_(bt,bu))])),bv,_(),bw,_(bx,_(by,bz),bA,_(by,bB)));}; 
-var b="url",c="e22编辑优惠券.html",d="generationDate",e=new Date(1528450925868.38),f="isCanvasEnabled",g=false,h="isAdaptiveEnabled",i="variables",j="OnLoadVariable",k="page",l="packageId",m="fab38ec14b7a4a46a7d3e8d886352480",n="type",o="Axure:Page",p="name",q="E22编辑优惠券",r="notes",s="style",t="baseStyle",u="627587b6038d43cca051c114ac41ad32",v="pageAlignment",w="near",x="fill",y="fillType",z="solid",A="color",B=0xFFFFFFFF,C="image",D="imageHorizontalAlignment",E="imageVerticalAlignment",F="imageRepeat",G="auto",H="favicon",I="sketchFactor",J="0",K="colorStyle",L="appliedColor",M="fontName",N="Applied Font",O="borderWidth",P="adaptiveStyles",Q="interactionMap",R="diagram",S="objects",T="id",U="47e3946531c549b5a4b22cb9f9f9a02c",V="label",W="",X="friendlyType",Y="图片",Z="imageBox",ba="styleType",bb="visible",bc=true,bd="size",be="width",bf=1200,bg="height",bh=1098,bi="75a91ee5b9d042cfa01b8d565fe289c0",bj="location",bk="x",bl=20,bm="y",bn="imageOverrides",bo="20aa0c1233ea4c3fbb47ab0fcd4fca86",bp="isContained",bq="richTextPanel",br="paragraph",bs="images",bt="normal~",bu="images/e22编辑优惠券/regen/u0.png",bv="masters",bw="objectPaths",bx="47e3946531c549b5a4b22cb9f9f9a02c",by="scriptId",bz="u0",bA="20aa0c1233ea4c3fbb47ab0fcd4fca86",bB="u1";
+var b="url",c="e22编辑优惠券.html",d="generationDate",e=new Date(1529895542090),f="isCanvasEnabled",g=false,h="isAdaptiveEnabled",i="variables",j="OnLoadVariable",k="page",l="packageId",m="fab38ec14b7a4a46a7d3e8d886352480",n="type",o="Axure:Page",p="name",q="E22编辑优惠券",r="notes",s="style",t="baseStyle",u="627587b6038d43cca051c114ac41ad32",v="pageAlignment",w="near",x="fill",y="fillType",z="solid",A="color",B=0xFFFFFFFF,C="image",D="imageHorizontalAlignment",E="imageVerticalAlignment",F="imageRepeat",G="auto",H="favicon",I="sketchFactor",J="0",K="colorStyle",L="appliedColor",M="fontName",N="Applied Font",O="borderWidth",P="adaptiveStyles",Q="interactionMap",R="diagram",S="objects",T="id",U="47e3946531c549b5a4b22cb9f9f9a02c",V="label",W="",X="friendlyType",Y="图片",Z="imageBox",ba="styleType",bb="visible",bc=true,bd="size",be="width",bf=1200,bg="height",bh=1171,bi="75a91ee5b9d042cfa01b8d565fe289c0",bj="location",bk="x",bl=20,bm="y",bn="imageOverrides",bo="20aa0c1233ea4c3fbb47ab0fcd4fca86",bp="isContained",bq="richTextPanel",br="paragraph",bs="images",bt="normal~",bu="images/e22编辑优惠券/regen/u0.png",bv="masters",bw="objectPaths",bx="47e3946531c549b5a4b22cb9f9f9a02c",by="scriptId",bz="u0",bA="20aa0c1233ea4c3fbb47ab0fcd4fca86",bB="u1";
 return _creator();
 })());

diff --git a/files/e22编辑优惠券/styles.css b/files/e22编辑优惠券/styles.css
@@ -17,19 +17,19 @@
   left:0px;
   top:0px;
   width:1200px;
-  height:1098px;
+  height:1171px;
 }
 #u0 {
   position:absolute;
   left:20px;
   top:20px;
   width:1200px;
-  height:1098px;
+  height:1171px;
 }
 #u1 {
   position:absolute;
   left:2px;
-  top:541px;
+  top:578px;
   width:1196px;
   visibility:hidden;
   word-wrap:break-word;
